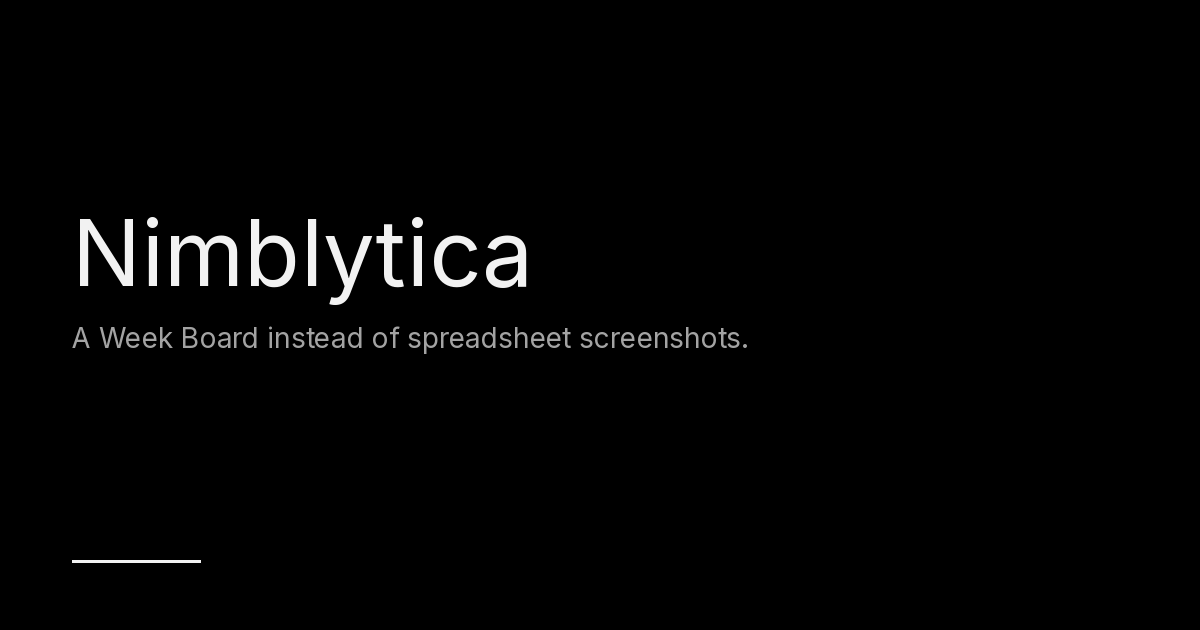
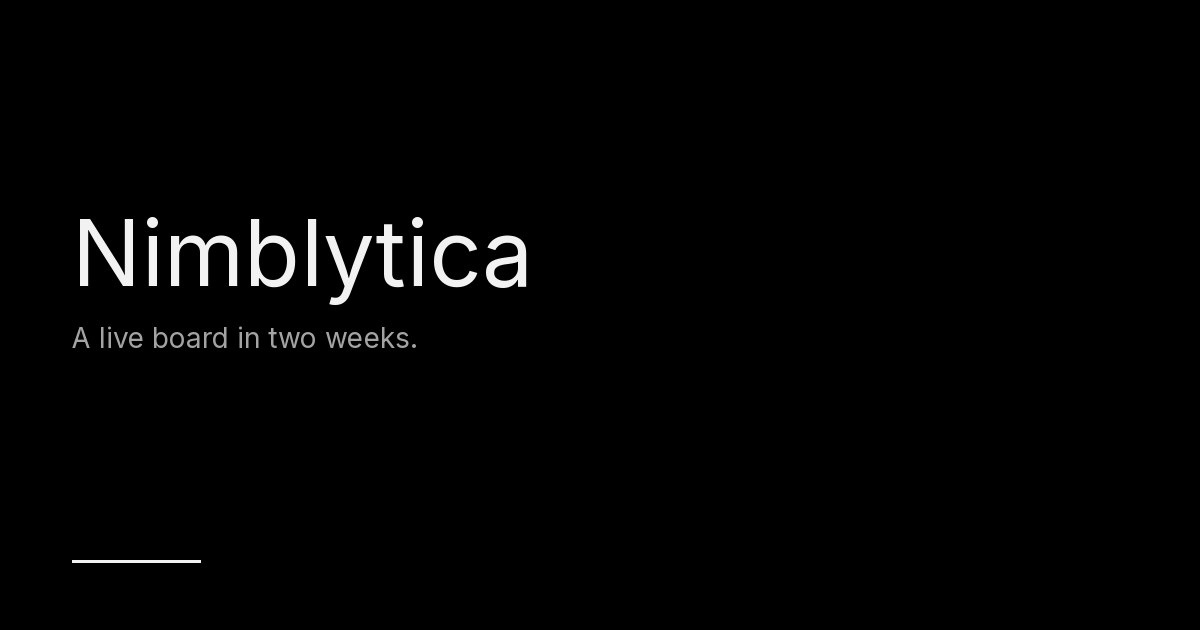
Drop Week Board as a product name; use a two-week live board offer.
Offer copy is now Two weeks / A live board in two weeks. Mailto is hello@nimblytica.com with subject Live ops board. Shift Board stays as the flex demo title.

Changed region(s): [[0.0617, 0.5127, 0.6167, 0.573]]

diff --git a/index.html b/index.html
@@ -7,15 +7,15 @@
   <meta name="theme-color" content="#000000">
   <meta name="view-transition" content="same-origin">
   <title>Nimblytica</title>
-  <meta name="description" content="A Week Board instead of spreadsheet screenshots.">
+  <meta name="description" content="A live board in two weeks.">
   <meta property="og:title" content="Nimblytica">
-  <meta property="og:description" content="A Week Board instead of spreadsheet screenshots.">
+  <meta property="og:description" content="A live board in two weeks.">
   <meta property="og:image" content="https://nimblytica.com/assets/og.png">
   <meta property="og:type" content="website">
   <meta property="og:url" content="https://nimblytica.com/">
   <meta name="twitter:card" content="summary_large_image">
   <meta name="twitter:title" content="Nimblytica">
-  <meta name="twitter:description" content="A Week Board instead of spreadsheet screenshots.">
+  <meta name="twitter:description" content="A live board in two weeks.">
   <meta name="twitter:image" content="https://nimblytica.com/assets/og.png">
   <link rel="icon" href="assets/mark.svg" type="image/svg+xml">
   <link rel="icon" href="assets/favicon-32.png" type="image/png" sizes="32x32">
@@ -30,18 +30,19 @@
       <canvas id="product-loop" class="hero-loop" aria-hidden="true"></canvas>
       <div class="wrap hero-copy">
         <h1 class="hero-title" id="site-title">Nimblytica</h1>
-        <p class="line">A Week Board instead of spreadsheet screenshots.</p>
-        <article class="offer" id="week-board-offer" aria-labelledby="offer-title">
-          <p class="meta">Two weeks · Week Board · live snapshot</p>
-          <h2 id="offer-title">Queues, overtime, a folder of packs — one as-of.</h2>
-          <p>The board is the product. A briefing layer is optional.</p>
+        <p class="line">A live board instead of spreadsheet screenshots.</p>
+        <article class="offer" id="offer" aria-labelledby="offer-title">
+          <p class="meta">Two weeks</p>
+          <h2 id="offer-title">A live board in two weeks</h2>
+          <p>Spreadsheets and screenshot packs, replaced with one as-of you can trust. Click a demo, then tell us what yours should show.</p>
           <div class="cta-row">
-            <a class="btn" href="mailto:hello@nimblytica.com?subject=Week%20Board%20%E2%80%94%20two-week%20ops%20snapshot&amp;body=I%27d%20like%20a%20two-week%20Week%20Board.%0A%0ATeam%20%2F%20queue%3A%20">Ask for a Week Board</a>
+            <a class="btn" href="mailto:hello@nimblytica.com?subject=Live%20ops%20board&amp;body=What%20I%20want%20to%20see%3A%0A%0AWhere%20the%20data%20lives%20today%20%28Excel%2C%20UKG%2C%20SQL%2C%20tickets%2C%20a%20folder%20of%20files%29%3A%0A%0AHow%20often%20it%20should%20refresh%3A%0A%0AWho%20looks%20at%20it%3A%0A%0AName%20%2F%20company%3A%0A">Tell us what you need</a>
+            <a class="btn ghost" href="demo/shift-board.html">See a sample board</a>
           </div>
         </article>
       </div>
 
-      <div class="product" id="week-board">
+      <div class="product" id="live-board">
         <div class="product-frame">
           <div class="mode-row">
             <div class="mode" id="wb-mode" role="group" aria-label="Cut">
@@ -74,7 +75,7 @@
             <article class="kpi"><div class="n" id="sc-board-b">48</div><div class="l">Open roles</div></article>
             <article class="kpi"><div class="n" id="sc-board-c">12%</div><div class="l">Attrition</div></article>
           </div>
-          <p class="caption">The Week Board is what you stand in front of. <a href="demo/shift-board.html">Shift Board</a> ranks who gets flexed off when volume is low.</p>
+          <p class="caption">The live board is what you stand in front of. <a href="demo/shift-board.html">Shift Board</a> ranks who gets flexed off when volume is low.</p>
         </div>
       </div>
     </section>
@@ -107,27 +108,35 @@
             <p id="sc-brief-1">Overtime on this cut is 24,000 hours over 12 months.</p>
             <p id="sc-brief-2">Next check: night coverage before opening more roles.</p>
           </div>
-          <p class="caption">A briefing layer can sit on the Week Board. It is not the product. <a href="demo/llm.html">Try a briefing</a>.</p>
+          <p class="caption">A briefing can sit on the board. It is not the product. <a href="demo/llm.html">Try a briefing</a>.</p>
         </div>
       </div>
     </section>
 
     <section class="sheet" aria-labelledby="contact-title">
       <div class="wrap">
-        <h2 id="contact-title">Ask for a Week Board</h2>
-        <p class="lede">Name, company, what you want. Goes to hello@nimblytica.com.</p>
+        <h2 id="contact-title">Tell us what you need</h2>
+        <p class="lede">Goes to hello@nimblytica.com. Subject: Live ops board.</p>
         <form id="contact-sheet">
           <div class="field">
-            <label for="name">Name</label>
+            <label for="want">What I want to see</label>
+            <textarea id="want" name="want" required></textarea>
+          </div>
+          <div class="field">
+            <label for="data">Where the data lives today (Excel, UKG, SQL, tickets, a folder of files)</label>
+            <input id="data" name="data" type="text">
+          </div>
+          <div class="field">
+            <label for="refresh">How often it should refresh</label>
+            <input id="refresh" name="refresh" type="text">
+          </div>
+          <div class="field">
+            <label for="who">Who looks at it</label>
+            <input id="who" name="who" type="text">
+          </div>
+          <div class="field">
+            <label for="name">Name / company</label>
             <input id="name" name="name" type="text" autocomplete="name" required>
-          </div>
-          <div class="field">
-            <label for="company">Company</label>
-            <input id="company" name="company" type="text" autocomplete="organization">
-          </div>
-          <div class="field">
-            <label for="want">What you want</label>
-            <textarea id="want" name="want" required placeholder="A two-week Week Board for our ops snapshot."></textarea>
           </div>
           <div class="cta-row">
             <button type="submit" class="btn">Send to hello@nimblytica.com</button>
@@ -139,7 +148,7 @@
   <footer class="site" data-chrome="footer"></footer>
   <script src="js/site.js"></script>
   <script src="js/tick.js"></script>
-  <script src="js/week-board.js"></script>
+  <script src="js/live-board.js"></script>
   <script src="js/loop.js"></script>
   <script src="js/scenes.js"></script>
   <script src="js/contact.js"></script>

diff --git a/demo/pipeline.html b/demo/pipeline.html
@@ -24,7 +24,7 @@
     <div class="page-head">
       <p class="crumb"><a href="../index.html">Home</a> / Pipeline</p>
       <h1>Metric kernel</h1>
-      <p class="lede">People-analytics export → Azure Data Factory → blob staging → Snowflake. The Week Board reads that grain. Power BI is optional on the same files.</p>
+      <p class="lede">People-analytics export → Azure Data Factory → blob staging → Snowflake. The live board reads that grain. Power BI is optional on the same files.</p>
     </div>
     <div class="kernel">
       <ol>
@@ -46,11 +46,11 @@
         <li>
           <span class="step">04</span>
           <h3>Snowflake</h3>
-          <p>The warehouse the Week Board and, if you want it, Power BI both read. Same as-of.</p>
+          <p>The warehouse the live board and, if you want it, Power BI both read. Same as-of.</p>
         </li>
       </ol>
     </div>
-    <img class="arch" src="../assets/arch-pipeline.svg" alt="Visier export to Azure Data Factory, blob staging, Snowflake, then the Week Board">
+    <img class="arch" src="../assets/arch-pipeline.svg" alt="Visier export to Azure Data Factory, blob staging, Snowflake, then the live board">
     <p class="caption">UKG can feed the same pattern for time and attendance. Unbranded. Invented setting. Not a client diagram.</p>
   </main>
   <footer class="site" data-chrome="footer"></footer>

diff --git a/js/contact.js b/js/contact.js
@@ -5,15 +5,32 @@
 
   form.addEventListener("submit", (e) => {
     e.preventDefault();
-    const name = (form.elements.namedItem("name").value || "").trim();
-    const company = (form.elements.namedItem("company").value || "").trim();
     const want = (form.elements.namedItem("want").value || "").trim();
-    if (!name || !want) return;
-    const body = "Name: " + name + "\nCompany: " + (company || "—") + "\n\n" + want;
-    const subject = "Week Board — " + name;
+    const data = (form.elements.namedItem("data").value || "").trim();
+    const refresh = (form.elements.namedItem("refresh").value || "").trim();
+    const who = (form.elements.namedItem("who").value || "").trim();
+    const name = (form.elements.namedItem("name").value || "").trim();
+    if (!want || !name) return;
+    const body = [
+      "What I want to see:",
+      want,
+      "",
+      "Where the data lives today (Excel, UKG, SQL, tickets, a folder of files):",
+      data,
+      "",
+      "How often it should refresh:",
+      refresh,
+      "",
+      "Who looks at it:",
+      who,
+      "",
+      "Name / company:",
+      name,
+      ""
+    ].join("\n");
     window.location.href =
       "mailto:hello@nimblytica.com?subject=" +
-      encodeURIComponent(subject) +
+      encodeURIComponent("Live ops board") +
       "&body=" +
       encodeURIComponent(body);
   });

diff --git a/work/self-serve.html b/work/self-serve.html
@@ -5,7 +5,7 @@
   <meta name="viewport" content="width=device-width, initial-scale=1">
   <meta name="theme-color" content="#000000">
   <meta name="view-transition" content="same-origin">
-  <title>Week Board · Nimblytica</title>
+  <title>Workforce snapshot · Nimblytica</title>
   <link rel="icon" href="../assets/mark.svg" type="image/svg+xml">
   <link rel="stylesheet" href="../css/site.css">
 </head>
@@ -13,11 +13,11 @@
   <header class="top" data-chrome="header"></header>
   <main class="wrap">
     <div class="page-head">
-      <p class="crumb"><a href="../index.html">Home</a> / Week Board</p>
+      <p class="crumb"><a href="../index.html">Home</a> / Workforce</p>
       <h1>Retire the ticketed pack</h1>
       <p class="lede">Overview, trend, slicer, top and new — an as-of people can filter themselves.</p>
     </div>
-    <p class="caption">The public board uses invented Northwind Health Ops figures. Alex Rivera is a made-up owner on that file. <a href="../demo/workforce.html">Open the Week Board</a>.</p>
+    <p class="caption">The public board uses invented Northwind Health Ops figures. Alex Rivera is a made-up owner on that file. <a href="../demo/workforce.html">Open the workforce snapshot</a>.</p>
   </main>
   <footer class="site" data-chrome="footer"></footer>
   <script src="../js/site.js"></script>

diff --git a/demo/workforce.html b/demo/workforce.html
@@ -6,9 +6,9 @@
   <meta name="robots" content="index,follow">
   <meta name="theme-color" content="#000000">
   <meta name="view-transition" content="same-origin">
-  <title>Week Board · Nimblytica</title>
+  <title>Workforce snapshot · Nimblytica</title>
   <meta name="description" content="Workforce snapshot — invented Northwind Health Ops.">
-  <meta property="og:title" content="Week Board · Nimblytica">
+  <meta property="og:title" content="Workforce snapshot · Nimblytica">
   <meta property="og:description" content="Workforce snapshot — invented Northwind Health Ops.">
   <meta property="og:image" content="https://nimblytica.com/assets/og.png">
   <link rel="icon" href="../assets/mark.svg" type="image/svg+xml">
@@ -22,8 +22,8 @@
   <header class="top" data-chrome="header"></header>
   <main class="wrap">
     <div class="page-head">
-      <p class="crumb"><a href="../index.html">Home</a> / Week Board</p>
-      <h1>Week Board</h1>
+      <p class="crumb"><a href="../index.html">Home</a> / Workforce</p>
+      <h1>Workforce snapshot</h1>
       <p class="lede"><span id="org-name">Northwind Health Ops</span> · as of <span id="as-of">—</span>. Invented employer, invented people, round numbers.</p>
     </div>
     <p class="banner" id="banner">Fictional demo · owner on file: Alex Rivera</p>

diff --git a/js/insights.js b/js/insights.js
@@ -139,11 +139,11 @@
       ],
       findings: [
         "The note does not name a sample queue or unit, so this page will not invent a number.",
-        "That is the Week Board job: one as-of, then a briefing function on that slice.",
-        "Without a Week Board, a briefing is guessing from screenshots."
+        "That is the live board job: one as-of, then a briefing function on that slice.",
+        "Without a live board, a briefing is guessing from screenshots."
       ],
-      nextCheck: "Name the queue or unit, or ask for a two-week Week Board so the next paste has a snapshot behind it.",
-      lastMile: "This page will not fake a confident answer. Name the queue or unit, or ask for a Week Board.",
+      nextCheck: "Name the queue or unit, or ask for a live board so the next paste has a snapshot behind it.",
+      lastMile: "This page will not fake a confident answer. Name the queue or unit, or tell us what you need.",
       source: "demo/synthetic · unmatched note · no API"
     };
   }

diff --git a/demo/llm.html b/demo/llm.html
@@ -7,9 +7,9 @@
   <meta name="theme-color" content="#000000">
   <meta name="view-transition" content="same-origin">
   <title>Briefing · Nimblytica</title>
-  <meta name="description" content="Optional briefing on the Week Board. Same note, same lines.">
+  <meta name="description" content="Optional briefing on the live board. Same note, same lines.">
   <meta property="og:title" content="Briefing · Nimblytica">
-  <meta property="og:description" content="Optional briefing on the Week Board. Same note, same lines.">
+  <meta property="og:description" content="Optional briefing on the live board. Same note, same lines.">
   <meta property="og:image" content="https://nimblytica.com/assets/og.png">
   <link rel="icon" href="../assets/mark.svg" type="image/svg+xml">
   <link rel="icon" href="../assets/favicon-32.png" type="image/png" sizes="32x32">

diff --git a/work/llm-insights.html b/work/llm-insights.html
@@ -15,7 +15,7 @@
     <div class="page-head">
       <p class="crumb"><a href="../index.html">Home</a> / Briefing</p>
       <h1>Optional lines on the board</h1>
-      <p class="lede">A short ops note in, a briefing out, from the same sample snapshots. The Week Board is still the product.</p>
+      <p class="lede">A short ops note in, a briefing out, from the same sample snapshots. The live board is still the product.</p>
     </div>
     <p class="caption">Same note, same briefing. Unmatched notes stay unmatched. <a href="../demo/llm.html">Try a briefing</a>.</p>
   </main>

diff --git a/work/pipeline.html b/work/pipeline.html
@@ -6,7 +6,7 @@
   <meta name="theme-color" content="#000000">
   <meta name="view-transition" content="same-origin">
   <title>Pipeline · Nimblytica</title>
-  <meta name="description" content="People-analytics export to the Week Board.">
+  <meta name="description" content="People-analytics export to a live board.">
   <link rel="icon" href="../assets/mark.svg" type="image/svg+xml">
   <link rel="stylesheet" href="../css/site.css">
 </head>

diff --git a/js/live-board.js b/js/live-board.js
@@ -1,6 +1,6 @@
-/* Homepage Week Board — department / hierarchy toggle, in-page ticks. */
+/* Homepage live board — department / hierarchy toggle, in-page ticks. */
 (function () {
-  const mount = document.getElementById("week-board");
+  const mount = document.getElementById("live-board");
   if (!mount) return;
 
   const DATA_URL = new URL("../data/workforce.fake.json", document.currentScript.src);

diff --git a/README.md b/README.md
@@ -8,4 +8,4 @@ Static only. No Node server. Public contact: hello@nimblytica.com.
 
 Demos use invented figures (Northwind Health Ops; Lanternfield Service Ops) and invented geography (Harbor, Midland, Ridge). No client data.
 
-The homepage is the Week Board. Shift Board, scorecard, pulse, and metric kernel are first-class demo pages.
+The homepage is a live ops board. Shift Board, scorecard, pulse, and metric kernel are first-class demo pages.
